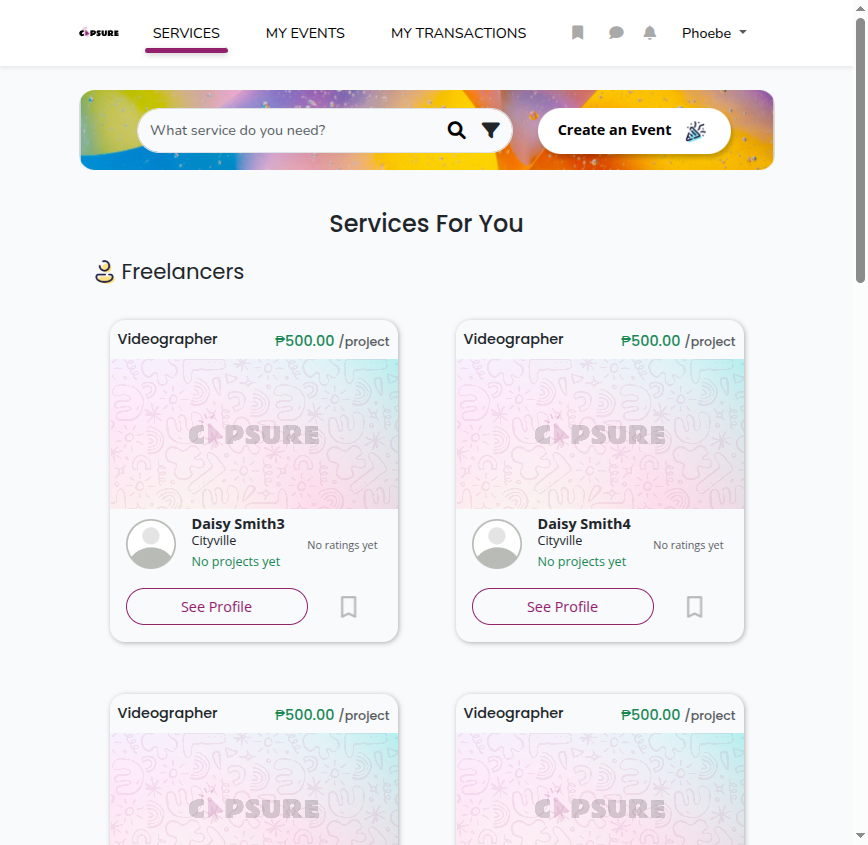
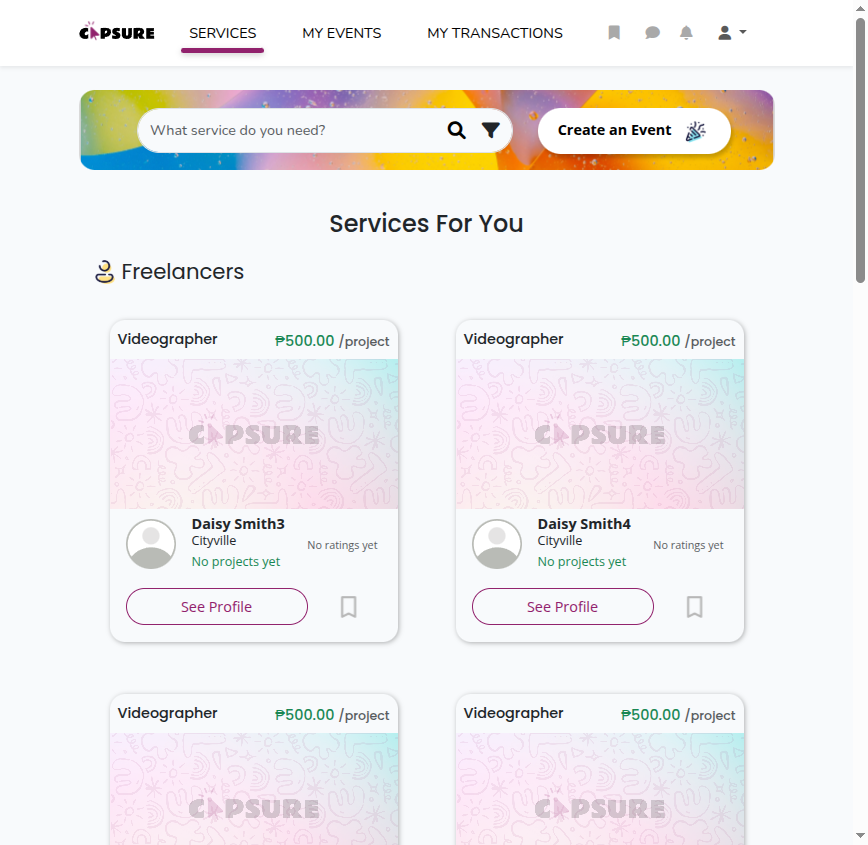
fix test case id

Changed region(s): [[0.0933, 0.0308, 0.7154, 0.0615], [0.7465, 0.0308, 0.8399, 0.0615]]

diff --git a/log.html b/log.html
@@ -2074,25 +2074,25 @@ storage = function () {
 window.output = {};
 </script>
 <script type="text/javascript">
-window.output["suite"] = [1,2,3,0,[],[1,0,14670],[[4,5,6,0,[],[1,34,4180],[[7,8,9,0,[],[1,36,4178],[],[[10,0,0,[],[1,226,3987],[[0,11,12,0,13,14,0,0,[1,227,2046],[[228,2,15]]],[0,16,12,0,17,18,0,0,[1,2274,179],[[2275,2,19]]],[0,16,12,0,17,20,0,0,[1,2454,148],[[2454,2,21]]],[0,22,12,0,23,24,0,0,[1,2602,154],[[2603,2,25]]],[0,26,12,0,27,28,0,0,[1,2757,1028],[]],[0,29,12,0,30,31,0,0,[1,3786,305],[[4090,2,32]]],[0,33,12,0,34,0,0,0,[1,4091,121],[]]]]],[],[1,1,0,0]]],[],[],[1,1,0,0]],[35,36,37,0,[],[1,4215,5033],[[38,39,40,0,[],[1,4216,5031],[],[[41,0,0,[],[1,4219,5027],[[0,42,43,0,44,45,0,0,[1,4220,4709],[[0,11,12,0,13,46,0,0,[1,4221,3151],[[4222,2,47]]],[0,16,12,0,17,48,0,0,[1,7373,184],[[7373,2,49]]],[0,16,12,0,17,50,0,0,[1,7557,149],[[7557,2,51]]],[0,22,12,0,23,24,0,0,[1,7706,1204],[[7706,2,25]]],[0,52,12,0,53,54,0,0,[1,8910,8],[]],[0,55,12,0,56,0,57,0,[1,8919,8],[[8927,2,58]]],[0,59,60,0,61,62,0,0,[1,8927,0],[[8927,2,63]]],[5,64,0,0,0,0,0,0,[1,8927,1],[[0,59,60,0,61,65,0,0,[1,8928,0],[[8928,2,65]]]]],[6,66,0,0,0,0,0,0,[3,8928,0],[[0,59,60,0,61,67,0,0,[3,8928,0],[]]]],[7,0,0,0,0,0,0,0,[3,8929,0],[[0,68,60,0,69,70,0,0,[3,8929,0],[]]]]]],[0,29,12,0,30,71,0,0,[1,8929,233],[[9162,2,72]]],[0,33,12,0,34,0,0,0,[1,9162,83],[]]]]],[],[1,1,0,0]]],[],[],[1,1,0,0]],[73,74,75,0,[],[1,9248,5421],[[76,77,78,0,[],[1,9250,5418],[],[[79,0,0,[],[1,9254,5414],[[0,42,43,0,44,80,0,0,[1,9255,5151],[[0,11,12,0,13,46,0,0,[1,9256,3724],[[9256,2,47]]],[0,16,12,0,17,48,0,0,[1,12981,183],[[12981,2,81]]],[0,16,12,0,17,50,0,0,[1,13163,146],[[13164,2,82]]],[0,22,12,0,23,24,0,0,[1,13309,1074],[[13310,2,25]]],[0,52,12,0,53,54,0,0,[1,14384,11],[]],[0,55,12,0,56,0,57,0,[1,14395,9],[[14404,2,83]]],[0,59,60,0,61,62,0,0,[1,14404,0],[[14404,2,84]]],[5,64,0,0,0,0,0,0,[3,14404,0],[[0,59,60,0,61,65,0,0,[3,14405,0],[]]]],[6,66,0,0,0,0,0,0,[1,14405,0],[[0,59,60,0,61,67,0,0,[1,14405,0],[[14405,2,67]]]]],[7,0,0,0,0,0,0,0,[3,14405,0],[[0,68,60,0,69,70,0,0,[3,14406,0],[]]]]]],[0,29,12,0,30,85,0,0,[1,14406,169],[[14575,2,86]]],[0,33,12,0,34,0,0,0,[1,14575,92],[]]]]],[],[1,1,0,0]]],[],[],[1,1,0,0]]],[],[],[3,3,0,0]];
+window.output["suite"] = [1,2,3,0,[],[1,0,13420],[[4,5,6,0,[],[1,34,4801],[[7,8,9,0,[],[1,36,4798],[],[[10,0,11,[],[1,216,4618],[[0,12,13,0,14,15,0,0,[1,218,2510],[[218,2,16]]],[0,17,13,0,18,19,0,0,[1,2729,183],[[2729,2,20]]],[0,17,13,0,18,21,0,0,[1,2912,145],[[2912,2,22]]],[0,23,13,0,24,25,0,0,[1,3057,147],[[3058,2,26]]],[0,27,13,0,28,29,0,0,[1,3205,1198],[]],[0,30,13,0,31,32,0,0,[1,4403,307],[[4710,2,33]]],[0,34,13,0,35,0,0,0,[1,4711,123],[]]]]],[],[1,1,0,0]]],[],[],[1,1,0,0]],[36,37,38,0,[],[1,4836,4374],[[7,39,40,0,[],[1,4838,4371],[],[[41,0,42,[],[1,4841,4367],[[0,43,44,0,45,46,0,0,[1,4842,4082],[[0,12,13,0,14,47,0,0,[1,4842,2565],[[4843,2,48]]],[0,17,13,0,18,49,0,0,[1,7408,190],[[7408,2,50]]],[0,17,13,0,18,51,0,0,[1,7598,152],[[7598,2,52]]],[0,23,13,0,24,25,0,0,[1,7750,1155],[[7750,2,26]]],[0,53,13,0,54,55,0,0,[1,8905,9],[]],[0,56,13,0,57,0,58,0,[1,8915,7],[[8922,2,59]]],[0,60,61,0,62,63,0,0,[1,8922,0],[[8922,2,64]]],[5,65,0,0,0,0,0,0,[1,8923,1],[[0,60,61,0,62,66,0,0,[1,8923,0],[[8923,2,66]]]]],[6,67,0,0,0,0,0,0,[3,8923,0],[[0,60,61,0,62,68,0,0,[3,8923,0],[]]]],[7,0,0,0,0,0,0,0,[3,8923,0],[[0,69,61,0,70,71,0,0,[3,8924,0],[]]]]]],[0,30,13,0,31,72,0,0,[1,8924,204],[[9127,2,73]]],[0,34,13,0,35,0,0,0,[1,9128,79],[]]]]],[],[1,1,0,0]]],[],[],[1,1,0,0]],[74,75,76,0,[],[1,9210,4209],[[7,77,78,0,[],[1,9212,4205],[],[[79,0,80,[],[1,9216,4201],[[0,43,44,0,45,81,0,0,[1,9220,3931],[[0,12,13,0,14,47,0,0,[1,9221,2437],[[9221,2,48]]],[0,17,13,0,18,49,0,0,[1,11658,188],[[11659,2,82]]],[0,17,13,0,18,51,0,0,[1,11846,157],[[11847,2,83]]],[0,23,13,0,24,25,0,0,[1,12004,1128],[[12004,2,26]]],[0,53,13,0,54,55,0,0,[1,13132,9],[]],[0,56,13,0,57,0,58,0,[1,13141,7],[[13149,2,84]]],[0,60,61,0,62,63,0,0,[1,13149,0],[[13149,2,85]]],[5,65,0,0,0,0,0,0,[3,13149,0],[[0,60,61,0,62,66,0,0,[3,13149,0],[]]]],[6,67,0,0,0,0,0,0,[1,13150,0],[[0,60,61,0,62,68,0,0,[1,13150,0],[[13150,2,68]]]]],[7,0,0,0,0,0,0,0,[3,13150,0],[[0,69,61,0,70,71,0,0,[3,13150,0],[]]]]]],[0,30,13,0,31,86,0,0,[1,13151,183],[[13334,2,87]]],[0,34,13,0,35,0,0,0,[1,13334,82],[]]]]],[],[1,1,0,0]]],[],[],[1,1,0,0]]],[],[],[3,3,0,0]];
 </script>
 <script type="text/javascript">
 window.output["strings"] = [];
 </script>
 <script type="text/javascript">
[2 lines of base64/hex data omitted]
 </script>
 <script type="text/javascript">
-window.output["stats"] = [[{"elapsed":"00:00:14","fail":0,"label":"All Tests","pass":3,"skip":0}],[],[{"elapsed":"00:00:15","fail":0,"id":"s1","label":"Tests","name":"Tests","pass":3,"skip":0},{"elapsed":"00:00:04","fail":0,"id":"s1-s1","label":"Tests.Admin","name":"Admin","pass":1,"skip":0},{"elapsed":"00:00:04","fail":0,"id":"s1-s1-s1","label":"Tests.Admin.TC Admin 001a","name":"TC Admin 001a","pass":1,"skip":0},{"elapsed":"00:00:05","fail":0,"id":"s1-s2","label":"Tests.Client","name":"Client","pass":1,"skip":0},{"elapsed":"00:00:05","fail":0,"id":"s1-s2-s1","label":"Tests.Client.TC CLNT 002a","name":"TC CLNT 002a","pass":1,"skip":0},{"elapsed":"00:00:05","fail":0,"id":"s1-s3","label":"Tests.Freelancer","name":"Freelancer","pass":1,"skip":0},{"elapsed":"00:00:05","fail":0,"id":"s1-s3-s1","label":"Tests.Freelancer.TC FRLNCR 002a","name":"TC FRLNCR 002a","pass":1,"skip":0}]];
+window.output["stats"] = [[{"elapsed":"00:00:13","fail":0,"label":"All Tests","pass":3,"skip":0}],[],[{"elapsed":"00:00:13","fail":0,"id":"s1","label":"Tests","name":"Tests","pass":3,"skip":0},{"elapsed":"00:00:05","fail":0,"id":"s1-s1","label":"Tests.Admin","name":"Admin","pass":1,"skip":0},{"elapsed":"00:00:05","fail":0,"id":"s1-s1-s1","label":"Tests.Admin.Account-Management","name":"Account-Management","pass":1,"skip":0},{"elapsed":"00:00:04","fail":0,"id":"s1-s2","label":"Tests.Client","name":"Client","pass":1,"skip":0},{"elapsed":"00:00:04","fail":0,"id":"s1-s2-s1","label":"Tests.Client.Account-Management","name":"Account-Management","pass":1,"skip":0},{"elapsed":"00:00:04","fail":0,"id":"s1-s3","label":"Tests.Freelancer","name":"Freelancer","pass":1,"skip":0},{"elapsed":"00:00:04","fail":0,"id":"s1-s3-s1","label":"Tests.Freelancer.Account-Management","name":"Account-Management","pass":1,"skip":0}]];
 </script>
 <script type="text/javascript">
 window.output["errors"] = [];
 </script>
 <script type="text/javascript">
-window.output["baseMillis"] = 1753952183242;
+window.output["baseMillis"] = 1753993518184;
 </script>
 <script type="text/javascript">
-window.output["generated"] = 14680;
+window.output["generated"] = 13435;
 </script>
 <script type="text/javascript">
 window.output["expand_keywords"] = null;

diff --git a/report.html b/report.html
@@ -1887,22 +1887,22 @@ storage = function () {
 window.output = {};
 </script>
 <script type="text/javascript">
-window.output["suite"] = [1,2,3,0,[],[1,0,14670],[[4,5,6,0,[],[1,34,4180],[[7,8,9,0,[],[1,36,4178],[],[[10,0,0,[],[1,226,3987],[]]],[],[1,1,0,0]]],[],[],[1,1,0,0]],[11,12,13,0,[],[1,4215,5033],[[14,15,16,0,[],[1,4216,5031],[],[[17,0,0,[],[1,4219,5027],[]]],[],[1,1,0,0]]],[],[],[1,1,0,0]],[18,19,20,0,[],[1,9248,5421],[[21,22,23,0,[],[1,9250,5418],[],[[24,0,0,[],[1,9254,5414],[]]],[],[1,1,0,0]]],[],[],[1,1,0,0]]],[],[],[3,3,0,0]];
+window.output["suite"] = [1,2,3,0,[],[1,0,13420],[[4,5,6,0,[],[1,34,4801],[[7,8,9,0,[],[1,36,4798],[],[[10,0,11,[],[1,216,4618],[]]],[],[1,1,0,0]]],[],[],[1,1,0,0]],[12,13,14,0,[],[1,4836,4374],[[7,15,16,0,[],[1,4838,4371],[],[[17,0,18,[],[1,4841,4367],[]]],[],[1,1,0,0]]],[],[],[1,1,0,0]],[19,20,21,0,[],[1,9210,4209],[[7,22,23,0,[],[1,9212,4205],[],[[24,0,25,[],[1,9216,4201],[]]],[],[1,1,0,0]]],[],[],[1,1,0,0]]],[],[],[3,3,0,0]];
 </script>
 <script type="text/javascript">
 window.output["strings"] = [];
 </script>
 <script type="text/javascript">
-window.output["strings"] = window.output["strings"].concat(["*","*Tests","*/home/errol-john/Documents/capsure-automation-tests/tests","*tests","*Admin","*/home/errol-john/Documents/capsure-automation-tests/tests/admin","*tests/admin","*TC Admin 001a","*/home/errol-john/Documents/capsure-automation-tests/tests/admin/TC_Admin_001a.robot","*tests/admin/TC_Admin_001a.robot","*Login As Admin","*Client","*/home/errol-john/Documents/capsure-automation-tests/tests/client","*tests/client","*TC CLNT 002a","*/home/errol-john/Documents/capsure-automation-tests/tests/client/TC_CLNT_002a.robot","*tests/client/TC_CLNT_002a.robot","*Login As Client","*Freelancer","*/home/errol-john/Documents/capsure-automation-tests/tests/freelancer","*tests/freelancer","*TC FRLNCR 002a","*/home/errol-john/Documents/capsure-automation-tests/tests/freelancer/TC_FRLNCR_002a.robot","*tests/freelancer/TC_FRLNCR_002a.robot","*Login As Freelancer"]);
+window.output["strings"] = window.output["strings"].concat(["*","*Tests","*/home/errol-john/Documents/capsure-automation-tests/tests","*tests","*Admin","*/home/errol-john/Documents/capsure-automation-tests/tests/admin","*tests/admin","*Account-Management","*/home/errol-john/Documents/capsure-automation-tests/tests/admin/account-management.robot","*tests/admin/account-management.robot","*Login As Admin","*<p>ID:  TC_ADMIN_001a | Login with valid admin credentials\x3c/p>","*Client","*/home/errol-john/Documents/capsure-automation-tests/tests/client","*tests/client","*/home/errol-john/Documents/capsure-automation-tests/tests/client/account-management.robot","*tests/client/account-management.robot","*Login As Client","*<p>ID:  TC_CLNT_001a | Login with valid client credentials\x3c/p>","*Freelancer","*/home/errol-john/Documents/capsure-automation-tests/tests/freelancer","*tests/freelancer","*/home/errol-john/Documents/capsure-automation-tests/tests/freelancer/account-management.robot","*tests/freelancer/account-management.robot","*Login As Freelancer","*<p>ID:  TC_FRLNCR_001a | Login with valid freelancer credentials\x3c/p>"]);
 </script>
 <script type="text/javascript">
-window.output["stats"] = [[{"elapsed":"00:00:14","fail":0,"label":"All Tests","pass":3,"skip":0}],[],[{"elapsed":"00:00:15","fail":0,"id":"s1","label":"Tests","name":"Tests","pass":3,"skip":0},{"elapsed":"00:00:04","fail":0,"id":"s1-s1","label":"Tests.Admin","name":"Admin","pass":1,"skip":0},{"elapsed":"00:00:04","fail":0,"id":"s1-s1-s1","label":"Tests.Admin.TC Admin 001a","name":"TC Admin 001a","pass":1,"skip":0},{"elapsed":"00:00:05","fail":0,"id":"s1-s2","label":"Tests.Client","name":"Client","pass":1,"skip":0},{"elapsed":"00:00:05","fail":0,"id":"s1-s2-s1","label":"Tests.Client.TC CLNT 002a","name":"TC CLNT 002a","pass":1,"skip":0},{"elapsed":"00:00:05","fail":0,"id":"s1-s3","label":"Tests.Freelancer","name":"Freelancer","pass":1,"skip":0},{"elapsed":"00:00:05","fail":0,"id":"s1-s3-s1","label":"Tests.Freelancer.TC FRLNCR 002a","name":"TC FRLNCR 002a","pass":1,"skip":0}]];
+window.output["stats"] = [[{"elapsed":"00:00:13","fail":0,"label":"All Tests","pass":3,"skip":0}],[],[{"elapsed":"00:00:13","fail":0,"id":"s1","label":"Tests","name":"Tests","pass":3,"skip":0},{"elapsed":"00:00:05","fail":0,"id":"s1-s1","label":"Tests.Admin","name":"Admin","pass":1,"skip":0},{"elapsed":"00:00:05","fail":0,"id":"s1-s1-s1","label":"Tests.Admin.Account-Management","name":"Account-Management","pass":1,"skip":0},{"elapsed":"00:00:04","fail":0,"id":"s1-s2","label":"Tests.Client","name":"Client","pass":1,"skip":0},{"elapsed":"00:00:04","fail":0,"id":"s1-s2-s1","label":"Tests.Client.Account-Management","name":"Account-Management","pass":1,"skip":0},{"elapsed":"00:00:04","fail":0,"id":"s1-s3","label":"Tests.Freelancer","name":"Freelancer","pass":1,"skip":0},{"elapsed":"00:00:04","fail":0,"id":"s1-s3-s1","label":"Tests.Freelancer.Account-Management","name":"Account-Management","pass":1,"skip":0}]];
 </script>
 <script type="text/javascript">
-window.output["baseMillis"] = 1753952183242;
+window.output["baseMillis"] = 1753993518184;
 </script>
 <script type="text/javascript">
-window.output["generated"] = 14680;
+window.output["generated"] = 13435;
 </script>
 <script type="text/javascript">
 window.output["expand_keywords"] = null;
